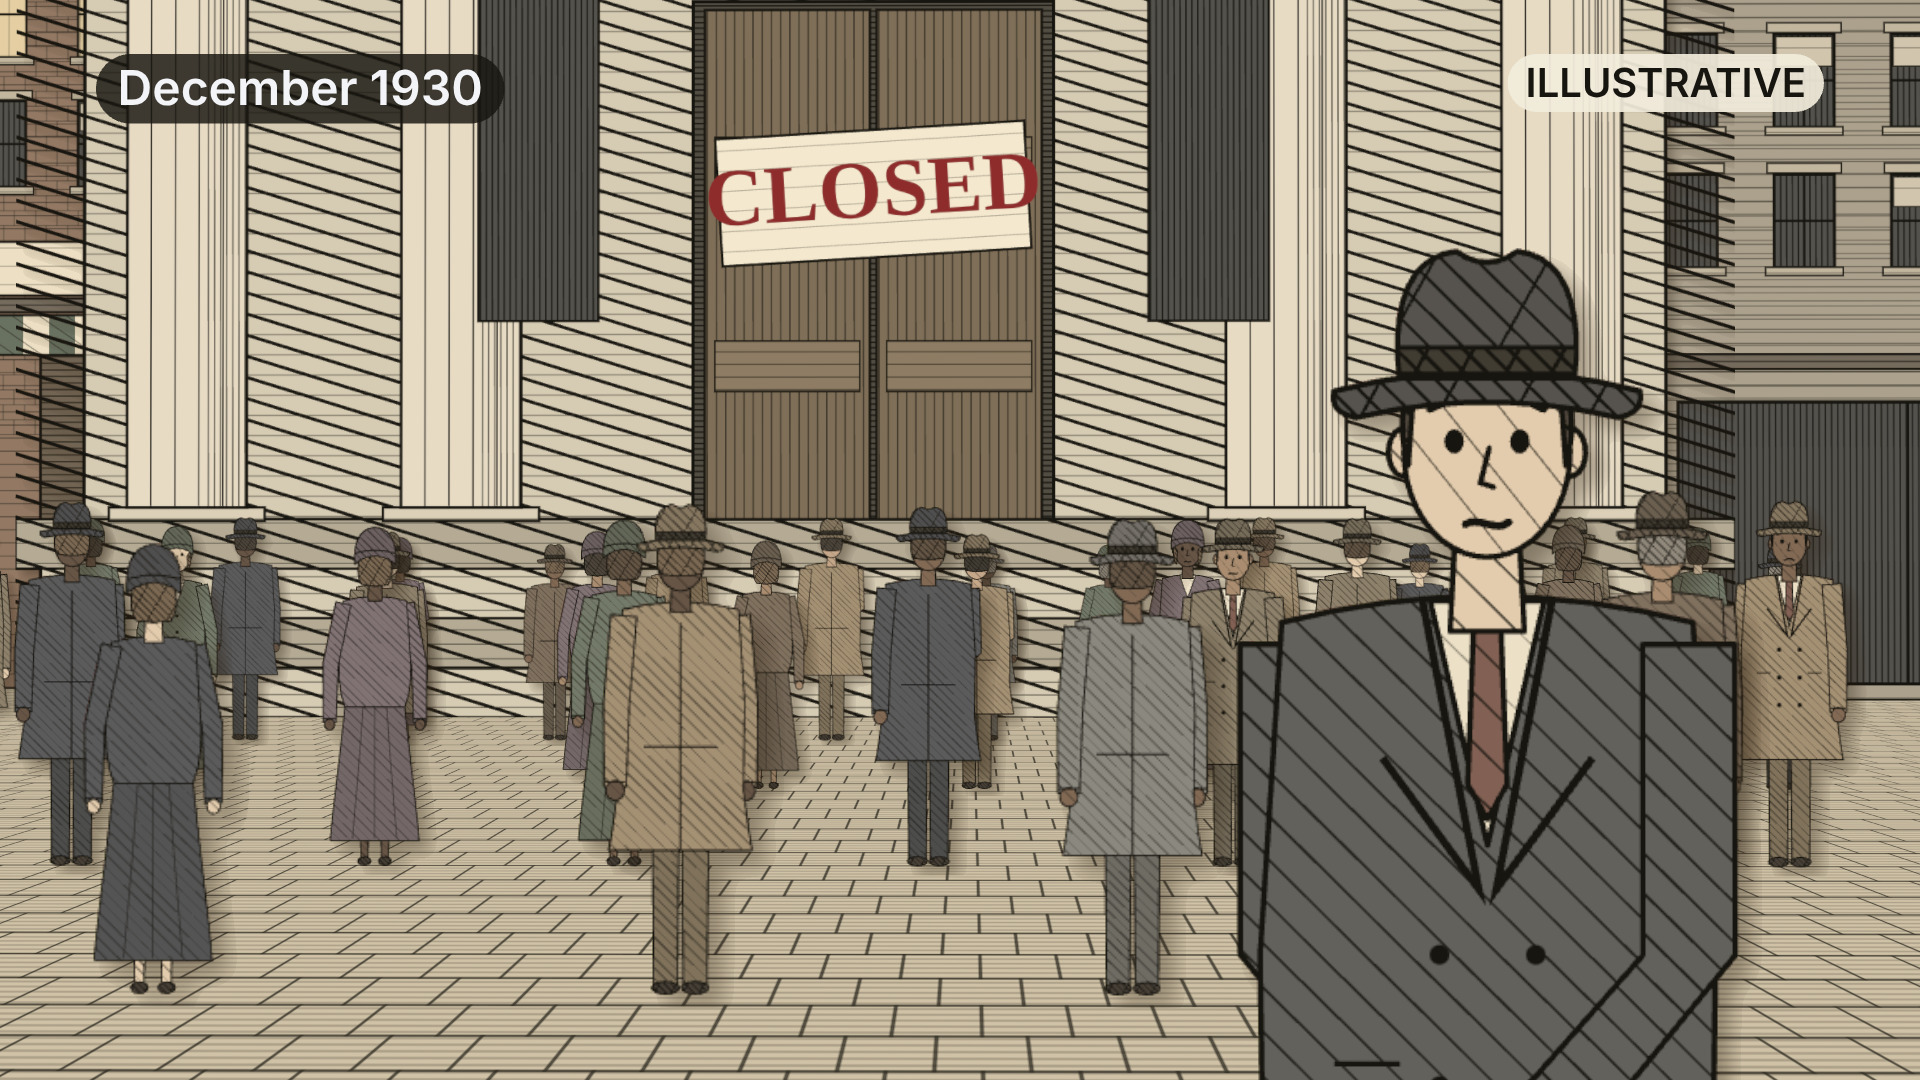
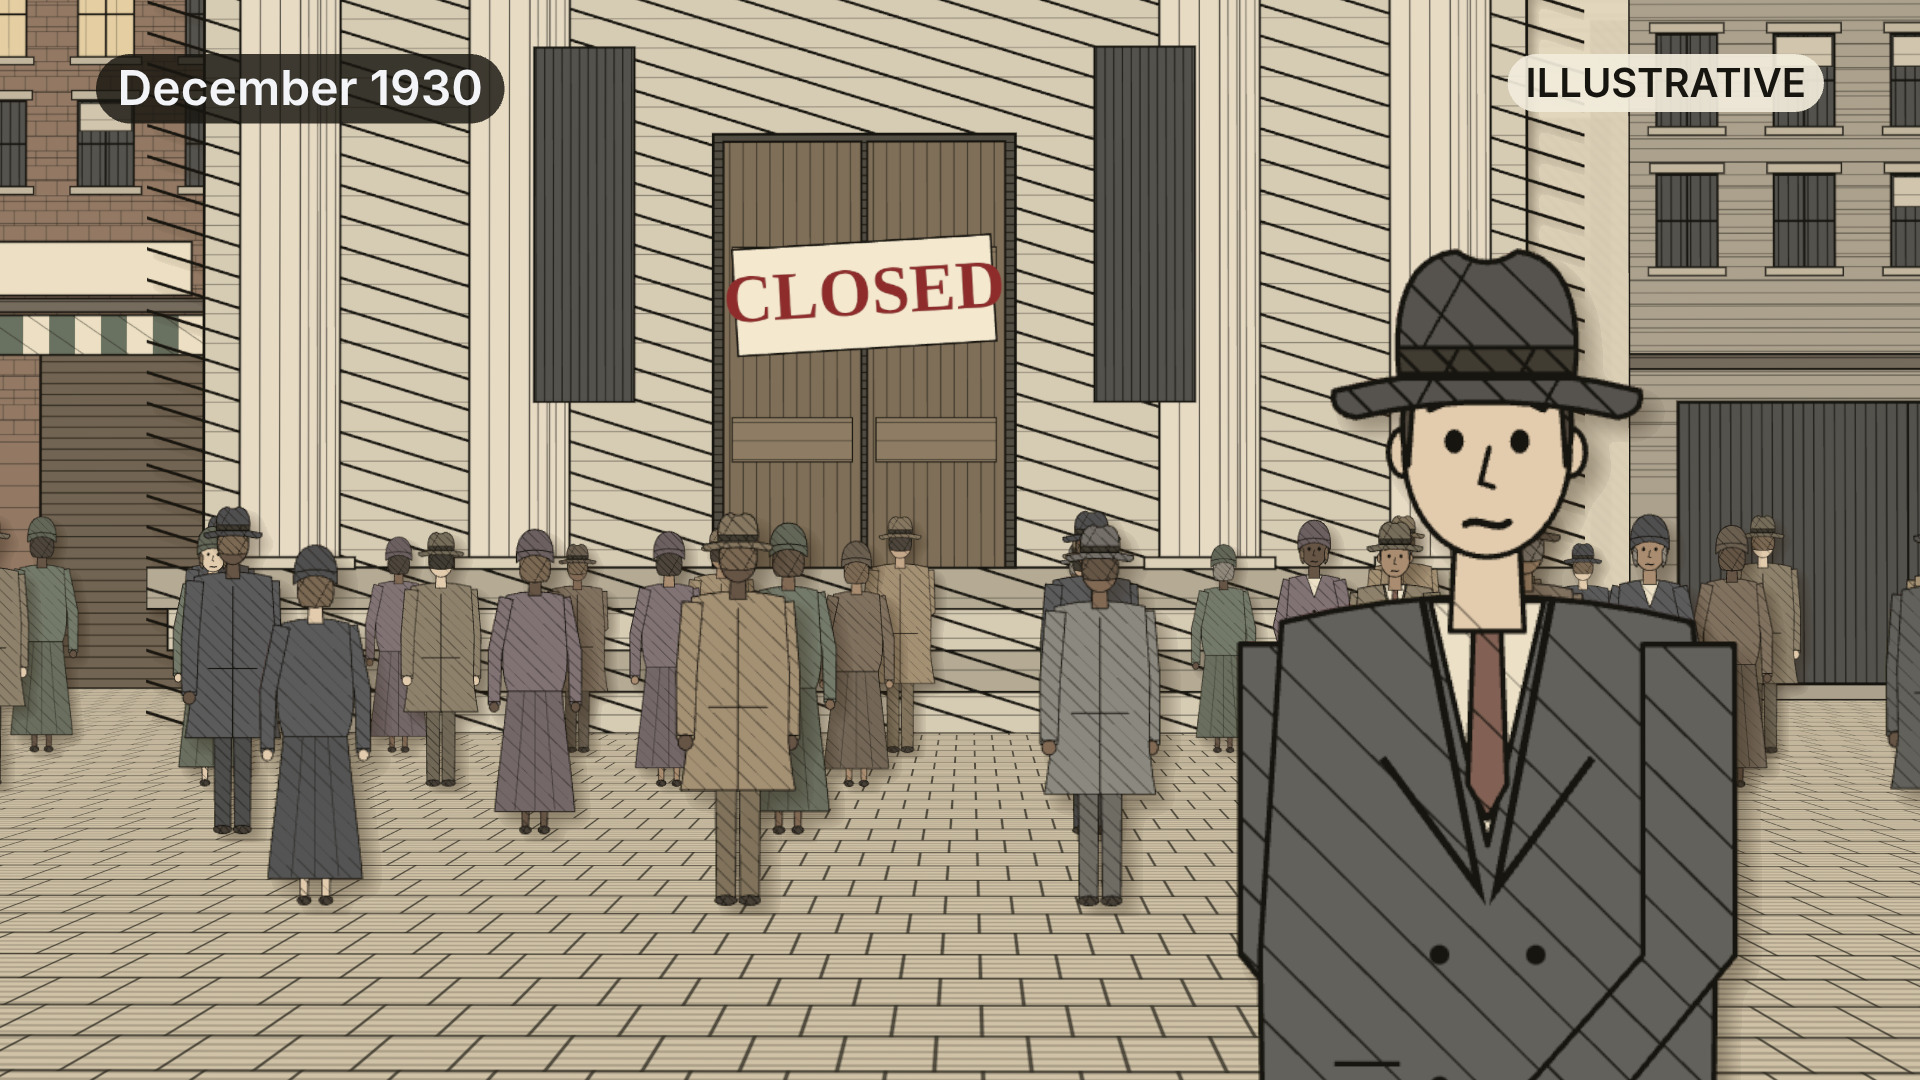
rnd-hybrid v3 bước 2 (P3): giảm gạch ~40 %, không gạch mặt/tay/chữ/thẻ, người/ngân hàng lớn hơn ở K2; cổng máy nén giả YouTube (x264 8 Mbps → 360p, Otsu-Michelson vùng chữ/mặt) ĐẠT vòng 1: CLOSED 0,427/0,388, BANK 0,559, mặt 0,577
Claude-Session: https://claude.ai/code/session_01JWVjoYXfwVAp8css7jXa5M

diff --git a/rnd-hybrid/v3/style/street2d.js b/rnd-hybrid/v3/style/street2d.js
@@ -4,13 +4,13 @@
 //   sky(g, W, H, {style}), pavement(g, W, H, {style})
 // Không đồ vật hiện đại (không biển điện, không xe hiện đại, không điều hoà). Tất định (hash).
 import { hash } from '/rnd-hybrid/cutout/rig.js';
-import { INK } from '/rnd-hybrid/v3/style/figure1930.js';
+import { INK, HATCH } from '/rnd-hybrid/v3/style/figure1930.js';
 
 const SEP = (c, st, k = 0.55) => { if (st.style !== 'engrave') return c; const n = parseInt(c.slice(1), 16), a = [n >> 16, (n >> 8) & 255, n & 255], L = (a[0] * 0.3 + a[1] * 0.59 + a[2] * 0.11) / 255;
   const s = [236, 222, 192].map((v) => v * (0.35 + 0.75 * L)); return 'rgb(' + a.map((v, i) => Math.round(v + (s[i] - v) * k)).join(',') + ')'; };
 function hatchRect(g, x, y, w, h, d, st, ang = 0.0, gap = 6) {
   if (st.style !== 'engrave' || d <= 0.02) return; g.save(); g.beginPath(); g.rect(x, y, w, h); g.clip(); g.strokeStyle = INK; g.globalAlpha = 0.3 + d * 0.6; g.lineWidth = 1.1 + d;
-  const R = Math.hypot(w, h), cx = x + w / 2, cy = y + h / 2, ca = Math.cos(ang), sa = Math.sin(ang), sp = gap / Math.max(0.25, d); g.beginPath();
+  const R = Math.hypot(w, h), cx = x + w / 2, cy = y + h / 2, ca = Math.cos(ang), sa = Math.sin(ang), sp = gap * HATCH.spacing / Math.max(0.25, d); g.beginPath();
   for (let s = -R; s <= R; s += sp) { g.moveTo(cx - ca * R - sa * s, cy - sa * R + ca * s); g.lineTo(cx + ca * R - sa * s, cy + sa * R + ca * s); } g.stroke(); g.restore(); }
 const box = (g, x, y, w, h, fill, st, d = 0.3, lw = 3, ang = 0) => { g.fillStyle = SEP(fill, st); g.fillRect(x, y, w, h); hatchRect(g, x, y, w, h, d, st, ang); g.strokeStyle = INK; g.lineWidth = lw; g.strokeRect(x, y, w, h); };
 
@@ -39,7 +39,7 @@ export function facade(g, W, H, { kind = 'shop', sign = 'LUNCH', awning = '#8E3B
   // tầng trệt: cửa hàng — kính lớn, cửa, mái hiên sọc, biển chữ
   const gy = H * 0.72;
   box(g, 0, gy - 18, W, 18, '#5A4E44', st, 0.6, 3);
-  if (sign) { box(g, W * 0.1, gy - 92, W * 0.8, 70, '#E9DFC6', st, 0.05, 3); g.fillStyle = INK; g.font = `700 ${Math.min(58, W * 0.09)}px Georgia, 'Times New Roman', serif`; g.textAlign = 'center'; g.textBaseline = 'middle'; g.fillText(sign, W / 2, gy - 56); }
+  if (sign) { box(g, W * 0.1, gy - 92, W * 0.8, 70, '#E9DFC6', st, 0, 3); g.fillStyle = INK; g.font = `700 ${Math.min(58, W * 0.09)}px Georgia, 'Times New Roman', serif`; g.textAlign = 'center'; g.textBaseline = 'middle'; g.fillText(sign, W / 2, gy - 56); }
   box(g, W * 0.06, gy + 40, W * 0.56, H - gy - 60, '#2D3038', st, 0.8, 4, 1.57);
   g.save(); g.strokeStyle = INK; g.lineWidth = 3; g.beginPath(); g.moveTo(W * 0.06 + W * 0.28, gy + 40); g.lineTo(W * 0.06 + W * 0.28, H - 20); g.stroke(); g.restore();
   box(g, W * 0.7, gy + 30, W * 0.22, H - gy - 30, '#5A4330', st, 0.7, 4);
@@ -56,7 +56,7 @@ export function bankFacade(g, W, H, { style = 'paper', closed = true, columns = 
   // trán tường + dầm
   g.fillStyle = SEP('#DCD3C0', st); g.beginPath(); g.moveTo(0, H * 0.21); g.lineTo(W / 2, H * 0.02); g.lineTo(W, H * 0.21); g.closePath(); g.fill(); g.save(); g.clip(); hatchRect(g, 0, 0, W, H * 0.22, 0.25, st, 0.3); g.restore();
   g.strokeStyle = INK; g.lineWidth = 4; g.stroke();
-  box(g, -W * 0.01, H * 0.2, W * 1.02, H * 0.09, '#D6CDB9', st, 0.2, 4);
+  box(g, -W * 0.01, H * 0.2, W * 1.02, H * 0.09, '#D6CDB9', st, 0, 4);   // dầm chữ BANK: không gạch
   g.fillStyle = INK; g.font = `700 ${H * 0.06}px Georgia, 'Times New Roman', serif`; g.textAlign = 'center'; g.textBaseline = 'middle'; g.fillText('B A N K', W / 2, H * 0.247);
   // cửa (giữa)
   const dx = W * 0.4, dw = W * 0.2, dy = H * 0.5;
@@ -64,7 +64,7 @@ export function bankFacade(g, W, H, { style = 'paper', closed = true, columns = 
   for (const k of [0, 1]) { const x = dx + k * dw / 2 + 4; box(g, x, dy, dw / 2 - 8, H * 0.36, closed ? '#6B5236' : '#1E1C1A', st, closed ? 0.55 : 0.95, 3, 1.57);
     if (closed) for (const y of [0.3, 0.7]) box(g, x + 12, dy + H * 0.36 * y - 30, dw / 2 - 32, 60, '#7E6444', st, 0.4, 2); }
   if (closed) { // tờ CLOSED dán chéo
-    g.save(); g.translate(W / 2, dy + H * 0.13); g.rotate(-0.06); box(g, -W * 0.09, -H * 0.045, W * 0.18, H * 0.09, '#F2EAD6', st, 0.03, 3);
+    g.save(); g.translate(W / 2, dy + H * 0.13); g.rotate(-0.06); box(g, -W * 0.09, -H * 0.045, W * 0.18, H * 0.09, '#F2EAD6', st, 0, 3);
     g.fillStyle = '#8E2B2B'; g.font = `800 ${H * 0.058}px Georgia, serif`; g.textAlign = 'center'; g.textBaseline = 'middle'; g.fillText('CLOSED', 0, 2); g.restore(); }
   // 6 cột có rãnh
   for (let i = 0; i < 6; i++) { if (i === 2 || i === 3 || !columns) continue; const cx = W * (0.1 + i * 0.16), cw = W * 0.07, y0 = H * 0.3, y1 = H * 0.86;

diff --git a/rnd-hybrid/v3/style/figure1930.js b/rnd-hybrid/v3/style/figure1930.js
@@ -5,6 +5,8 @@
 import { hash } from '/rnd-hybrid/cutout/rig.js';
 
 export const INK = '#17150F';
+// mật độ gạch (tranh khắc): hệ số dãn khoảng cách nét; 1,67 = giảm ~40 % số nét so với bản khung phong cách đầu (chủ dự án 14/10)
+export const HATCH = { spacing: 1.67 };
 const SK = { light: '#E8C4A2', medium: '#C99470', tan: '#A9744F', dark: '#74482F', deep: '#4E3022' };
 export const COATS = { charcoal: '#3F434A', brown: '#6B5442', navy: '#323C52', grey: '#6F737A', tweed: '#7A6A52', camel: '#9A7B55', plum: '#6A5470', green: '#4E6656' };
 
@@ -18,8 +20,8 @@ function sepia(c, k = 0.55) { const a = rgbOf(c), L = (a[0] * 0.3 + a[1] * 0.59 
 function hatch(g, box, d, ang = 0.75, gap = 7, lw = 1.3, color = INK) {
   if (d <= 0.02) return; const [x0, y0, x1, y1] = box, cx = (x0 + x1) / 2, cy = (y0 + y1) / 2, R = Math.hypot(x1 - x0, y1 - y0) / 2 + 4;
   const pass = (a, sp) => { g.beginPath(); const ca = Math.cos(a), sa = Math.sin(a); for (let s = -R; s <= R; s += sp) { g.moveTo(cx + ca * -R - sa * s, cy + sa * -R + ca * s); g.lineTo(cx + ca * R - sa * s, cy + sa * R + ca * s); } g.stroke(); };
-  g.save(); g.strokeStyle = color; g.lineWidth = lw * (0.5 + d); g.globalAlpha = Math.min(1, 0.35 + d); pass(ang, gap / Math.max(0.25, d));
-  if (d > 0.55) pass(ang + 1.3, gap * 1.4 / (d - 0.4)); g.restore();
+  g.save(); g.strokeStyle = color; g.lineWidth = lw * (0.5 + d); g.globalAlpha = Math.min(1, 0.35 + d); pass(ang, gap * HATCH.spacing / Math.max(0.25, d));
+  if (d > 0.55) pass(ang + 1.3, gap * HATCH.spacing * 1.4 / (d - 0.4)); g.restore();
 }
 // một mảng: tô + (khắc: gạch theo độ tối) + viền
 function part(g, path, fill, st, { dark = 0.3, box = null, lw = null } = {}) {
@@ -51,7 +53,7 @@ function face(g, expr, st) {
   g.lineWidth = 2.6; g.beginPath(); g.moveTo(1, -702); g.lineTo(-3, -686); g.lineTo(3, -684); g.stroke();                        // mũi
   g.lineWidth = 3.6; g.beginPath(); if (mouth < -0.8) { g.moveTo(-11, -664); g.quadraticCurveTo(0, -672, 11, -664); } else if (mouth > 0.5) { g.moveTo(-12, -670); g.quadraticCurveTo(0, -660, 12, -670); }
   else { g.moveTo(-10, -667); g.bezierCurveTo(-4, -671, 4, -663, 10, -668); } g.stroke();
-  if (st.style === 'engrave') { g.save(); g.clip(P(ell(0, -700, 38, 48))); g.globalAlpha = 0.35; hatch(g, [16, -750, 40, -650], 0.3, 0.9, 6, 1); g.restore(); }
+  // mặt: không gạch (đọc được trên điện thoại)
   g.restore();
 }
 
@@ -68,7 +70,7 @@ export function drawFigure(g, o) {
   // ---- tay sau
   const back = front ? -1 : 1;   // tay "sau" là tay trái khi nhìn trước
   const drawArm = (side, pose) => { const A = armPath(side, pose, fem); part(g, P(A.d), coat, st, { dark: 0.5, box: A.box });
-    part(g, P(ell(A.hand[0], A.hand[1] + 6, fem ? 12 : 15, fem ? 13 : 16)), skin, st, { dark: 0.25, box: [A.hand[0] - 16, A.hand[1] - 12, A.hand[0] + 16, A.hand[1] + 24] });
+    part(g, P(ell(A.hand[0], A.hand[1] + 6, fem ? 12 : 15, fem ? 13 : 16)), skin, st, { dark: 0, box: [A.hand[0] - 16, A.hand[1] - 12, A.hand[0] + 16, A.hand[1] + 24] });
     const cuff = new Path2D(); cuff.moveTo(A.hand[0] - 16, A.hand[1] - 8); cuff.lineTo(A.hand[0] + 16, A.hand[1] - 8); g.save(); g.strokeStyle = INK; g.lineWidth = 3; g.stroke(cuff); g.restore(); };
   if (has('backArm')) drawArm(back, front ? poseL : poseR);
   // ---- thân: áo khoác (nam: dài tới gối, hai hàng cúc, ve áo; nữ: váy dài + áo khoác lửng)
@@ -92,8 +94,8 @@ export function drawFigure(g, o) {
   }
   // ---- đầu: cổ, tai, tóc, mặt, mũ
   if (has('head')) {
-    part(g, P(`M-15,-655 L15,-655 L17,-618 L-17,-618 Z`), skin, st, { dark: 0.4, box: [-17, -655, 17, -618] });
-    if (front) { for (const s of [-1, 1]) part(g, P(ell(s * 38, -700, 7, 11)), skin, st, { dark: 0.3, box: [s * 38 - 8, -712, s * 38 + 8, -688] }); }
+    part(g, P(`M-15,-655 L15,-655 L17,-618 L-17,-618 Z`), skin, st, { dark: 0.15, box: [-17, -655, 17, -618] });
+    if (front) { for (const s of [-1, 1]) part(g, P(ell(s * 38, -700, 7, 11)), skin, st, { dark: 0, box: [s * 38 - 8, -712, s * 38 + 8, -688] }); }
     part(g, P(ell(0, -700, 38, 48)), skin, st, { dark: front ? 0.0 : 0.3, box: [-38, -748, 38, -652] });
     if (front) { // tóc dưới vành mũ
       if (fem) { part(g, P(`M-40,-716 Q-46,-670 -32,-660 L-30,-700 Z M40,-716 Q46,-670 32,-660 L30,-700 Z`), hairC, st, { dark: 0.7, box: [-46, -720, 46, -660] }); }

diff --git a/rnd-hybrid/v3/style/p3/scene.js b/rnd-hybrid/v3/style/p3/scene.js
@@ -38,21 +38,27 @@ export async function boot(res) {
   for (let i = 0; i < 4; i++) { const left = i < 2, [sign, awn, kind] = SIGNS[i], h = 13 + (i % 2) * 3;
     const f = px(9, h, 110, (g, w, hh) => facade(g, w, hh, { kind, sign, awning: awn, seed: i + 2, style: STYLE, fire: i === 1 || i === 3 }));
     f.position.set(left ? -21.5 + (i % 2) * 9.2 : 12.3 + (i % 2) * 9.2, 0, -20 - (i % 2) * 1.5); scene.add(f); }
-  const bank = px(17, 14, 120, (g, w, h) => bankFacade(g, w, h, { style: STYLE })); bank.position.set(-0.4, 0, -18); scene.add(bank);
+  const bank = px(13, 10.7, 150, (g, w, h) => bankFacade(g, w, h, { style: STYLE })); bank.position.set(-0.4, 0, -16.5); scene.add(bank);   // ngân hàng nhỏ lại: người/ngân hàng ≈ 1:6
   // đám đông: 4 hàng nhìn lưng về cửa ngân hàng; vài người quay mặt
-  const rows = [[-15.5, 12, 3, 0.0], [-12.5, 11, 5, 0.6], [-9.6, 10, 7, -0.4], [-7.0, 8, 9, 0.3]];
+  const rows = [[-14.6, 11, 3, 0.0], [-12.6, 10, 5, 0.6], [-10.6, 9, 7, -0.4], [-8.6, 8, 9, 0.3]];
   for (const [z, n, seed, dx] of rows) { const r = row(crowdSpec(n, seed), 16, 150); r.position.set(dx, 0, z); scene.add(r); }
   // tiền cảnh K1: người đàn ông lo âu, chính diện, hai tay vò vành mũ… (tay chắp trước ngực)
   const man = px(1.6, 2.1, 520, (g, w, h) => { g.translate(w / 2, h - 10); const s = h / 830; g.scale(s, s);
     drawFigure(g, { sex: 'm', skin: 'light', coat: 'charcoal', hat: 'fedora', expr: 'worried', pose: { L: 'clasp', R: 'clasp' }, style: STYLE }); });
   man.position.set(1.15, 0, -2.6); scene.add(man);
   const cam = new THREE.PerspectiveCamera(36, W / H, 0.1, 300);
+  // vùng kiểm (cổng nén giả YouTube): hộp màn hình của chữ/mặt, chiếu từ toạ độ trên tấm phẳng (u,v: 0..1, v từ trên xuống)
+  const roiOf = (m, w, h, u0, v0, u1, v1) => { m.updateMatrixWorld(); let x0 = 1e9, y0 = 1e9, x1 = -1e9, y1 = -1e9;
+    for (const [u, v] of [[u0, v0], [u1, v0], [u0, v1], [u1, v1]]) { const p = new THREE.Vector3((u - 0.5) * w, (1 - v) * h, 0).applyMatrix4(m.matrixWorld).project(cam);
+      const X = (p.x + 1) / 2 * W, Y = (1 - p.y) / 2 * H; x0 = Math.min(x0, X); y0 = Math.min(y0, Y); x1 = Math.max(x1, X); y1 = Math.max(y1, Y); } return [x0, y0, x1, y1].map(Math.round); };
   const out = document.createElement('canvas'); out.width = W; out.height = H; const ctx = out.getContext('2d');
   function frame(t) {
     const K1 = t < 1;
     if (K1) { cam.position.set(0.55, 1.68, -0.55); cam.fov = 34; cam.lookAt(0.5, 1.72, -10); man.visible = true; }
-    else { cam.position.set(1.2, 2.3, 3.2); cam.fov = 46; cam.lookAt(0.0, 3.2, -16); man.visible = false; }
-    cam.updateProjectionMatrix(); renderer.render(scene, cam); ctx.drawImage(renderer.domElement, 0, 0);
+    else { cam.position.set(0.8, 2.1, -1.0); cam.fov = 44; cam.lookAt(0.0, 3.2, -16); man.visible = false; }
+    cam.updateProjectionMatrix(); cam.updateMatrixWorld(); renderer.render(scene, cam); ctx.drawImage(renderer.domElement, 0, 0);
+    window.ROI = { CLOSED: roiOf(bank, 13, 10.7, 0.41, 0.585, 0.59, 0.675), BANK: roiOf(bank, 13, 10.7, 0.36, 0.215, 0.64, 0.28) };
+    if (K1) { const fx = (416 - 50) / 832, fy = (161 - 63) / 1092; window.ROI.FACE = roiOf(man, 1.6, 2.1, fx, fy, 1 - fx, (161 + 63) / 1092); }
     // chrome kênh
     const s = W / 1920; ctx.save(); ctx.scale(s, s); const pill = (txt, x, y, px2, fg, bg, right) => { ctx.font = `600 ${px2}px Inter`; const pw = ctx.measureText(txt).width + px2 * 0.9, ph = px2 * 1.45, x0 = right ? x - pw : x;
       ctx.fillStyle = bg; ctx.beginPath(); ctx.roundRect(x0, y, pw, ph, ph / 2); ctx.fill(); ctx.fillStyle = fg; ctx.textBaseline = 'middle'; ctx.textAlign = 'left'; ctx.fillText(txt, x0 + px2 * 0.45, y + ph / 2 + px2 * 0.04); };

diff --git a/rnd-hybrid/v3/gate/roi.js b/rnd-hybrid/v3/gate/roi.js
@@ -1,0 +1,11 @@
+// R&D v3 · cổng máy: đọc window.ROI của một đoạn (scene.js) ở các thời điểm, dùng page.html của nhà máy (chỉ import, không sửa).
+//   NODE_PATH=$(npm root -g) node rnd-hybrid/v3/gate/roi.js <thư mục đoạn> <res> <t1,t2,…>  → in JSON {t: ROI}
+const { chromium } = require('playwright'); const fs = require('fs'), path = require('path');
+const ROOT = path.resolve(__dirname, '../../..'); const MIME = { '.html': 'text/html', '.js': 'text/javascript', '.json': 'application/json', '.woff2': 'font/woff2', '.png': 'image/png', '.jpg': 'image/jpeg' };
+(async () => { const [seg, res, ts] = process.argv.slice(2), W = Math.round(1920 * res / 1080), H = +res;
+  const b = await chromium.launch({ args: ['--use-gl=angle', '--use-angle=swiftshader', '--enable-unsafe-swiftshader', '--ignore-gpu-blocklist', '--font-render-hinting=none', '--disable-lcd-text'] });
+  const ctx = await b.newContext({ viewport: { width: W, height: H } });
+  await ctx.route('http://mocv.local/**', (r) => { const p = path.join(ROOT, decodeURIComponent(new URL(r.request().url()).pathname)); if (!p.startsWith(ROOT) || !fs.existsSync(p)) return r.fulfill({ status: 404, body: '' }); r.fulfill({ status: 200, body: fs.readFileSync(p), contentType: MIME[path.extname(p)] || 'application/octet-stream' }); });
+  const page = await ctx.newPage(); await page.goto(`http://mocv.local/toolkit/factory/world/page.html?seg=${encodeURIComponent(seg)}&res=${res}`); await page.waitForFunction('window.READY === true', null, { timeout: 180000 });
+  const out = {}; for (const t of ts.split(',').map(Number)) out[t] = await page.evaluate((t) => { APP.frame(t); return window.ROI; }, t);
+  console.log(JSON.stringify(out)); await b.close(); })();

diff --git a/rnd-hybrid/v3/gate/youtube_gate.py b/rnd-hybrid/v3/gate/youtube_gate.py
@@ -1,0 +1,32 @@
+"""R&D v3 · CỔNG MÁY "nén giả YouTube": khung 1080p → x264 1080p ~8 Mbps → giải mã → hạ 360p (bicubic) → đo vùng chữ/mặt.
+   python3 rnd-hybrid/v3/gate/youtube_gate.py <png 1080p> <roi.json của khung> <tên> <thư mục ra>
+Chỉ số mỗi vùng (trên ảnh 360p): Michelson = (Lsáng − Ltối)/(Lsáng + Ltối) sau ngưỡng Otsu trong vùng; cao vùng (px 360p).
+Ngưỡng ĐẠT (ghi trước, chưa hiệu chuẩn — chẩn đoán): chữ Michelson ≥ 0,35 và cao ≥ 9 px; mặt Michelson ≥ 0,35 và cao ≥ 14 px."""
+import json, subprocess, sys, os
+import numpy as np
+from PIL import Image
+png, roi, name, out = sys.argv[1], json.loads(sys.argv[2]) if sys.argv[2].startswith('{') else json.load(open(sys.argv[2])), sys.argv[3], sys.argv[4]
+os.makedirs(out, exist_ok=True)
+mp4 = os.path.join(out, name + '-8M.mp4')
+subprocess.run(['ffmpeg', '-y', '-loglevel', 'error', '-loop', '1', '-t', '2', '-i', png, '-c:v', 'libx264', '-preset', 'medium', '-b:v', '8M', '-maxrate', '8M', '-bufsize', '16M',
+                '-pix_fmt', 'yuv420p', '-r', '30', mp4], check=True)
+p360 = os.path.join(out, name + '-360p.png')
+subprocess.run(['ffmpeg', '-y', '-loglevel', 'error', '-ss', '1.0', '-i', mp4, '-frames:v', '1', '-vf', 'scale=640:360:flags=bicubic', p360], check=True)
+im = np.asarray(Image.open(p360).convert('RGB')).astype(np.float32) @ np.array([0.2126, 0.7152, 0.0722]); k = 360 / 1080
+def otsu(v):
+    h, e = np.histogram(v, 64, (0, 255)); c = (e[:-1] + e[1:]) / 2; best, th = -1, 128
+    for i in range(1, 64):
+        w0, w1 = h[:i].sum(), h[i:].sum()
+        if w0 == 0 or w1 == 0: continue
+        m0, m1 = (h[:i] * c[:i]).sum() / w0, (h[i:] * c[i:]).sum() / w1; s = w0 * w1 * (m0 - m1) ** 2
+        if s > best: best, th = s, c[i]
+    return th
+res = {}
+for key, (x0, y0, x1, y1) in roi.items():
+    a, b, c, d = [int(round(v * k)) for v in (x0, y0, x1, y1)]; a, b = max(a, 0), max(b, 0); c, d = min(c, 639), min(d, 359)
+    if c - a < 2 or d - b < 2: res[key] = {'skip': 'ngoài khung'}; continue
+    v = im[b:d, a:c].ravel(); t = otsu(v); lo, hi = v[v < t].mean(), v[v >= t].mean(); mich = (hi - lo) / (hi + lo + 1e-6)
+    hmin = 14 if key == 'FACE' else 9
+    res[key] = {'box360': [a, b, c, d], 'h360': d - b, 'michelson': round(float(mich), 3), 'pass': bool(mich >= 0.35 and (d - b) >= hmin)}
+    Image.open(p360).crop((max(a - 6, 0), max(b - 6, 0), min(c + 6, 640), min(d + 6, 360))).resize(((c - a + 12) * 4, (d - b + 12) * 4), Image.NEAREST).save(os.path.join(out, f'{name}-{key}-crop360x4.png'))
+print(json.dumps({'frame': name, 'regions': res, 'pass': all(r.get('pass', True) for r in res.values())}))
